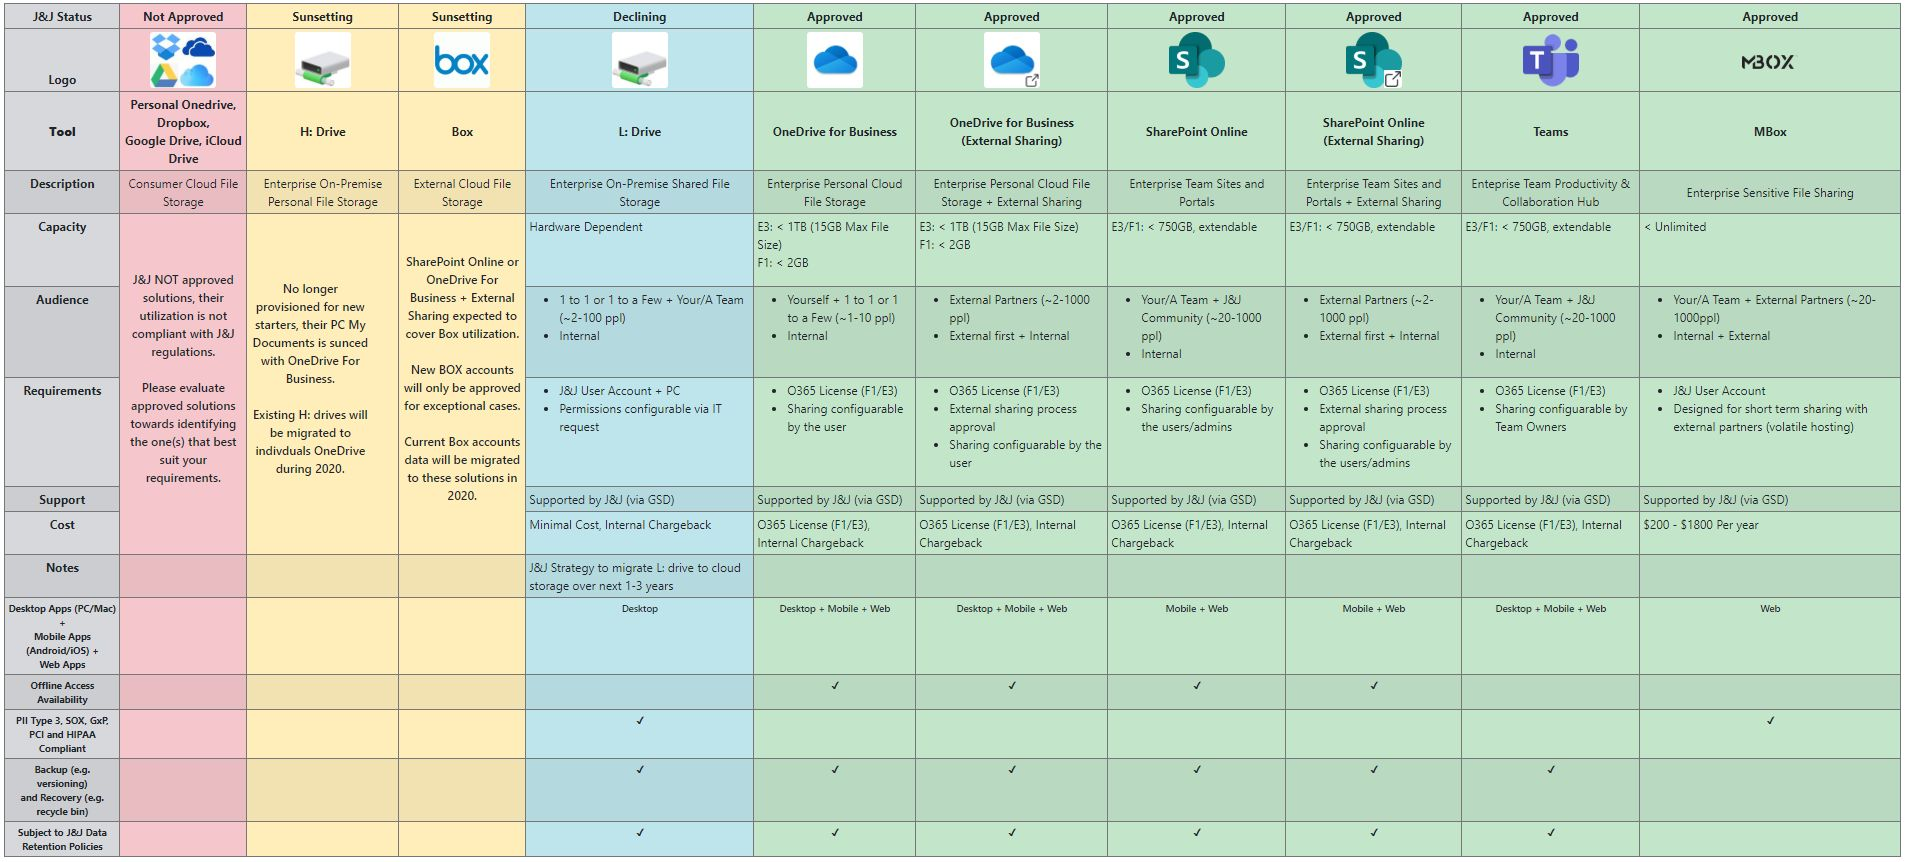
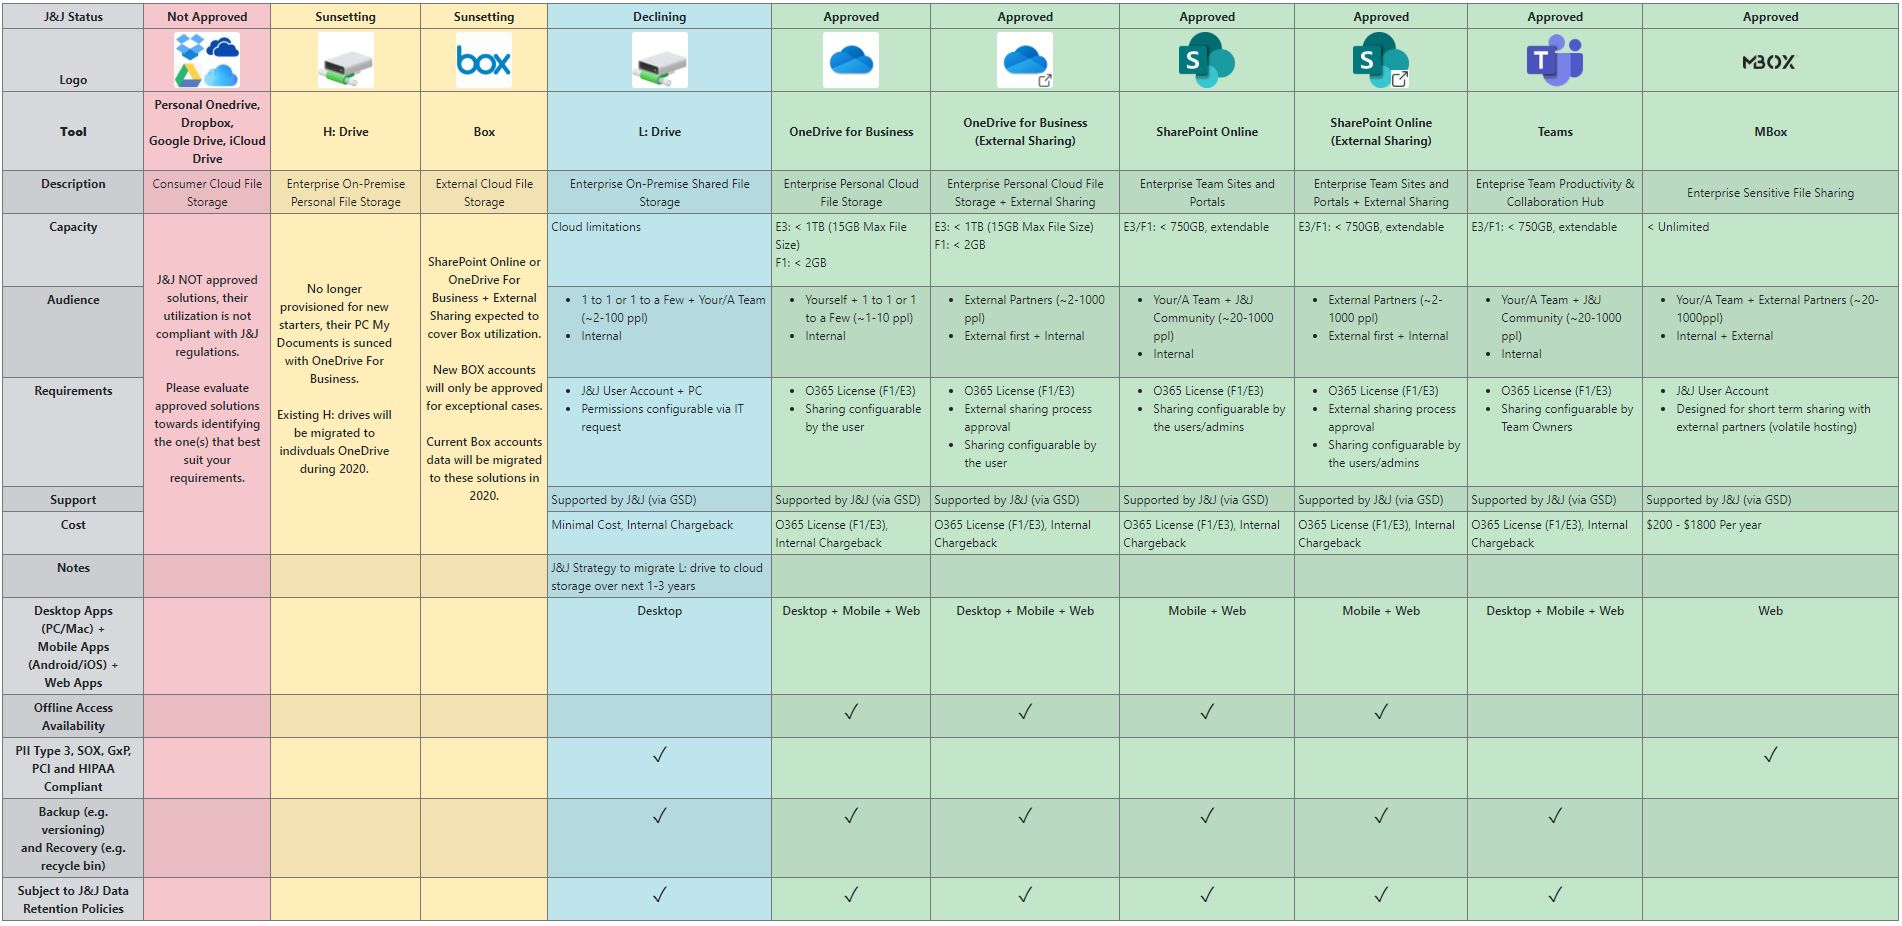
asdasdasdasd

diff --git a/Scenarios/FileSharing/toolkit_fileshands.html b/Scenarios/FileSharing/toolkit_fileshands.html
@@ -113,7 +113,7 @@
                             <p style="width: 10rem;">SharePoint Online or OneDrive For Business + External Sharing expected to cover Box utilization. <br><br> New BOX accounts will only be approved for exceptional cases. <br><br>Current Box accounts data will be migrated to these solutions in 2020.</p>
                         </td>
                         <td class="align-top">
-                            <p>Hardware Dependent</p>
+                            <p>Cloud limitations</p>
                         </td>
                         <td class="align-top">
                             <p>E3: &lt; 1TB (15GB Max File Size) <br>
@@ -271,7 +271,7 @@
                         <td>&nbsp;</td>
                     </tr>
 
-                    <tr class="small text-center stronger">
+                    <tr class=" text-center stronger">
                         <th scope="row" class="text-center">Desktop Apps (PC/Mac) + <br>Mobile Apps (Android/iOS) + <br>Web Apps</th>
                         <td>&nbsp;</td>
                         <td>&nbsp;</td>
@@ -285,59 +285,59 @@
                         <td>Web</td>
                     </tr>
 
-                    <tr class="small text-center stronger">
+                    <tr class=" text-center stronger">
                         <th scope="row" class="text-center ">Offline Access Availability</th>
                         <td>&nbsp;</td>
                         <td>&nbsp;</td>
                         <td>&nbsp;</td>
                         <td>&nbsp;</td>
-                        <td>&#10003;</td>
-                        <td>&#10003;</td>
-                        <td>&#10003;</td>
-                        <td>&#10003;</td>
+                        <td><h3>&#10003;</h3></td>
+                        <td><h3>&#10003;</h3></td>
+                        <td><h3>&#10003;</h3></td>
+                        <td><h3>&#10003;</h3></td>
                         <td>&nbsp;</td>
                         <td>&nbsp;</td>
                     </tr>
 
-                    <tr class="small text-center stronger">
+                    <tr class=" text-center stronger">
                         <th scope="row" class="text-center ">PII Type 3, SOX, GxP,<br> PCI and HIPAA Compliant</th>
                         <td>&nbsp;</td>
                         <td>&nbsp;</td>
                         <td>&nbsp;</td>
-                        <td>&#10003;</td>
+                        <td><h3>&#10003;</h3></td>
                         <td>&nbsp;</td>
                         <td>&nbsp;</td>
                         <td>&nbsp;</td>
                         <td>&nbsp;</td>
                         <td>&nbsp;</td>
-                        <td>&#10003;</td>
+                        <td><h3>&#10003;</h3></td>
                     </tr>
 
-                    <tr class="small text-center stronger">
+                    <tr class=" text-center stronger">
                         <th scope="row" class="text-center ">Backup (e.g. versioning) <br>and Recovery (e.g. recycle bin)</th>
                         <td>&nbsp;</td>
                         <td>&nbsp;</td>
                         <td>&nbsp;</td>
-                        <td>&#10003;</td>
-                        <td>&#10003;</td>
-                        <td>&#10003;</td>
-                        <td>&#10003;</td>
-                        <td>&#10003;</td>
-                        <td>&#10003;</td>
+                        <td><h3>&#10003;</h3></td>
+                        <td><h3>&#10003;</h3></td>
+                        <td><h3>&#10003;</h3></td>
+                        <td><h3>&#10003;</h3></td>
+                        <td><h3>&#10003;</h3></td>
+                        <td><h3>&#10003;</h3></td>
                         <td>&nbsp;</td>
                     </tr>
 
-                    <tr class="small text-center stronger">
+                    <tr class=" text-center stronger">
                         <th scope="row" class="text-center">Subject to J&amp;J Data Retention Policies</th>
                         <td>&nbsp;</td>
                         <td>&nbsp;</td>
                         <td>&nbsp;</td>
-                        <td>&#10003;</td>
-                        <td>&#10003;</td>
-                        <td>&#10003;</td>
-                        <td>&#10003;</td>
-                        <td>&#10003;</td>
-                        <td>&#10003;</td>
+                        <td><h3>&#10003;</h3></td>
+                        <td><h3>&#10003;</h3></td>
+                        <td><h3>&#10003;</h3></td>
+                        <td><h3>&#10003;</h3></td>
+                        <td><h3>&#10003;</h3></td>
+                        <td><h3>&#10003;</h3></td>
                         <td>&nbsp;</td>
                     </tr>
 
@@ -348,11 +348,11 @@
                         <td>&nbsp;</td>
                         <td>&nbsp;</td>
                         <td>&nbsp;</td>
-                        <td>&#10003;</td>
+                        <td><h3>&#10003;</h3></td>
                         <td>&nbsp;</td>
-                        <td>&#10003;</td>
+                        <td><h3>&#10003;</h3></td>
                         <td>&nbsp;</td>
-                        <td>&#10003;</td>
+                        <td><h3>&#10003;</h3></td>
                     </tr-->
                 </tbody>
             </table>
